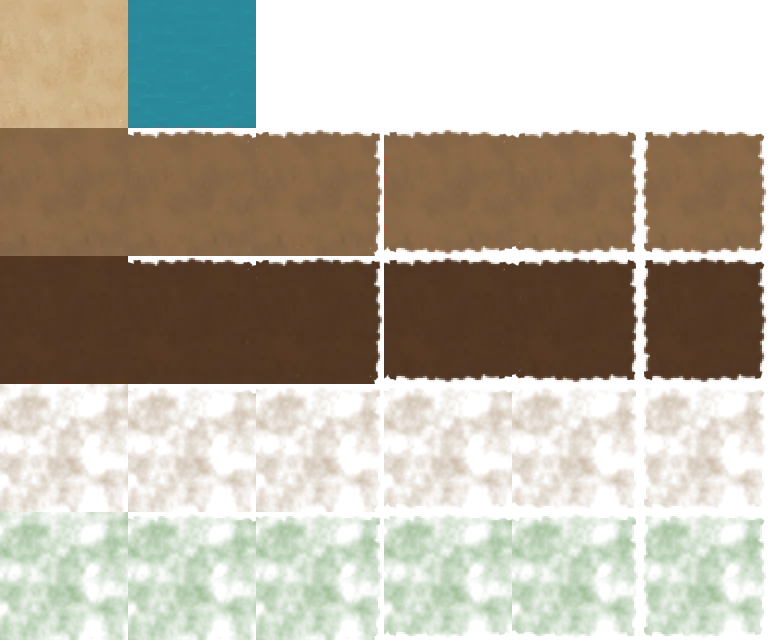
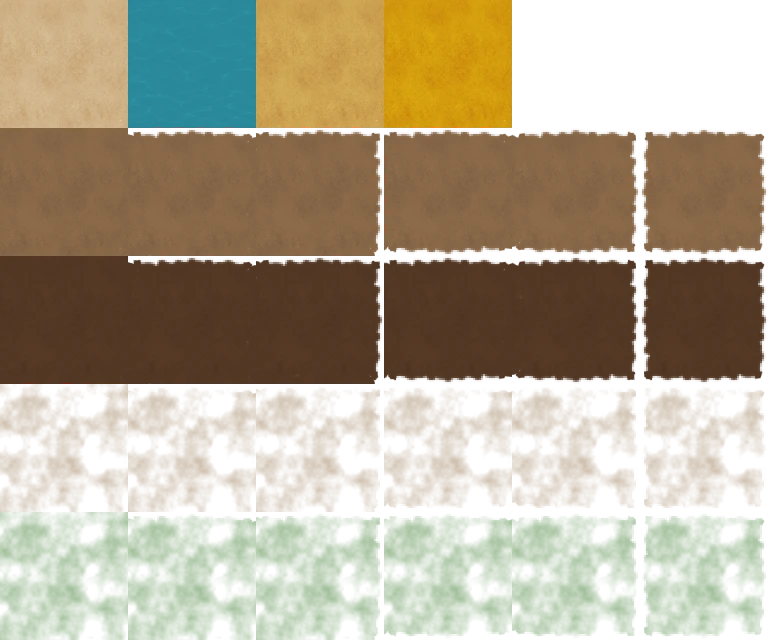
jaya

Changed region(s): [[0.3125, 0.0, 0.6875, 0.2188]]

diff --git a/game.js b/game.js
@@ -1649,6 +1649,88 @@ console.log(
             }
             if (watch.length) list.push({ cr, watch, wet: false, fade: null });
         }
+
+        // THE FIELD ITSELF, not only the worked patches. Every ground cell that
+        // is not under a plant watches its own nearest canal exactly as a crop
+        // does, and turns damp when the water gets there — so the land changes
+        // colour behind the machine rather than only sprouting dark squares
+        // where the crops happen to be.
+        const B = W.BARE || {};
+        if (B.ENABLED === false || TM.TERRAIN_GROUND_DAMP === undefined) return;
+        const ground = seg.groundSprites || [];
+        const planted = new Set((seg.crops || []).map((cr) => cr.col + ',' + cr.row));
+        const bare = seg.bareGround = [];
+        for (let r = 0; r < g.rows; r++) {
+            for (let c = 0; c < g.cols; c++) {
+                const spr = ground[r * g.cols + c];
+                if (!spr || planted.has(c + ',' + r)) continue;
+                let bd = Infinity, watch = [];
+                for (const cc of canal) {
+                    const d = Math.abs(cc.col - c) + Math.abs(cc.row - r);
+                    if (d > bd) continue;
+                    if (d < bd) { bd = d; watch = [cc]; } else watch.push(cc);
+                }
+                if (!watch.length) continue;
+                bare.push({ spr, watch, col: c, row: r, due: undefined, fade: null });
+            }
+        }
+    }
+
+    // Wash the bare field damp behind the water.
+    //
+    // Deliberately LATER and SLOWER than the tilled patches. Both used to key off
+    // the same canal threshold, and a large quiet change landing on the same beat
+    // as a small loud one takes the eye off the small one — which is the plant,
+    // the thing worth watching. So the plant's soil turns under its splash first,
+    // and the field follows as the aftermath.
+    _updateBareGround(dtMs) {
+        const TM = CONFIG.ROAD.TILEMAP, W = TM.GROUND_WET || {}, B = W.BARE || {};
+        if (W.ENABLED === false || B.ENABLED === false) return;
+        if (TM.TERRAIN_GROUND_DAMP === undefined) return;
+        const at = W.AT !== undefined ? W.AT : 0.15;
+        const dt = Math.min(dtMs || 16, 100);
+        const ms = B.FADE_MS !== undefined ? B.FADE_MS : 900;
+        for (const seg of this.segments) {
+            const list = seg.bareGround;
+            if (!list || !list.length) continue;
+            for (let i = list.length - 1; i >= 0; i--) {
+                const e = list[i];
+                if (e.due === undefined) {
+                    let on = false;
+                    for (const cc of e.watch) if (cc.progress > at) { on = true; break; }
+                    if (!on) continue;
+                    // Its own wait, from the cell's hash — the field fills in
+                    // unevenly, the way ground soaks rather than switches.
+                    e.due = this._rndRange(B.DELAY_MS || [500, 1400]);
+                    continue;
+                }
+                e.due -= dt;
+                if (e.due > 0) continue;
+                list[i] = list[list.length - 1]; list.pop();
+                this._dampenGround(seg, e, ms);
+            }
+        }
+    }
+
+    // Cross-fade one bare cell to its damp twin. The same trick the tilled
+    // patches use: the damp tile fades in just above the dry one, then replaces
+    // it and the copy goes — a hard swap pops when a neighbourhood turns at once.
+    _dampenGround(seg, e, ms) {
+        const TM = CONFIG.ROAD.TILEMAP;
+        const spr = e.spr;
+        if (!spr || !spr.scene) return;
+        const frame = TM.TERRAIN_GROUND_DAMP;
+        if (ms <= 0) { spr.setFrame(frame); return; }
+        e.fade = this._addB(this.add.image(spr.x, spr.y, 'terrain', frame)
+            .setDisplaySize(spr.displayWidth, spr.displayHeight)
+            .setAlpha(0).setDepth(spr.depth + 0.001), seg);
+        this.tweens.add({
+            targets: e.fade, alpha: 1, duration: ms, ease: 'Sine.easeOut',
+            onComplete: () => {
+                if (spr.scene) spr.setFrame(frame);
+                if (e.fade) { e.fade.destroy(); e.fade = null; }
+            },
+        });
     }
 
     // Turn each tilled patch wet as its canal arrives, and play the splash that
@@ -7617,6 +7699,7 @@ console.log(
         // Grow crops as the water reaches them.
         this._updateCrops(time);
         this._updateWetGround(delta || 16);
+        this._updateBareGround(delta || 16);
         this._updateFarmers(delta || 16);
         this._updateProps(delta || 16);
         this._updateSway(delta || 16);

diff --git a/config.js b/config.js
@@ -867,8 +867,15 @@ var CONFIG = {
                 COLOR:   0x0a1a10,   // a cold green-black, so dimmed fields read
                                      // as being in shade rather than greyed out
                 FADE_MS: 420,        // handover cross-fade
-                DEPTH:   3.5,        // above every piece of world art (spoil is
-                                     // the highest at 3.12) and below the UI
+                // ABOVE EVERYTHING IN THE WORLD, actors included. The shade
+                // falls on the whole farm — its crops, its animals, its farmer —
+                // or the field dims while the things living in it stay lit,
+                // which reads as a bug rather than as distance.
+                //
+                // 4.5 clears the actor band, which sorts from 4 (see _yDepth)
+                // and rises by thousandths. Ground art is all below 3.2. The UI
+                // is on its own camera and is not affected by this at all.
+                DEPTH:   4.5,
             },
 
             // ── Animal farms ────────────────────────────────────────────────
@@ -1293,6 +1300,15 @@ var CONFIG = {
             TERRAIN: 'graphics/tilesheets/terrain.webp',
             TERRAIN_GROUND: 0,      // row 1, col 1 — the field's base tile, dry
             TERRAIN_WATER:  1,      // row 1, col 2 — flat water; the flow head
+            // Row 1, col 3 — the SAME bare ground as col 1, damp. Not the tilled
+            // pair below: this is the field itself, unworked, with water in it.
+            //
+            // The whole field turns, not only the patches under the plants. With
+            // just the patches darkening the picture said "the plants were
+            // watered"; with the field turning it says "the land got water",
+            // which is the thing the machine is actually doing. It also gives a
+            // level with few crops something to show for being dug.
+            TERRAIN_GROUND_DAMP: 2,
                                     // and its foam blobs are cut from this
             TERRAIN_TILLED:     6,  // row 2, col 1 — DRY tilled soil, and the
                                     // first of that row's six edge variants
@@ -1380,6 +1396,23 @@ var CONFIG = {
                 // the field a different order each time. This way a plant always
                 // takes its turn at the same point.
                 STAGGER_MS: [0, 700],
+
+                // ── The field behind the patches ────────────────────────
+                // Bare ground turns too, but AFTER the plant it surrounds and
+                // more gently. Both used to key off the same canal threshold, so
+                // they fired on one beat and the big quiet change competed with
+                // the small loud one that actually matters.
+                //
+                // Sequenced instead: the plant's own soil turns under its splash,
+                // then the field washes in behind it. The plant is the event; the
+                // field is the aftermath.
+                BARE: {
+                    ENABLED:    true,
+                    DELAY_MS:   [500, 1400],  // after its canal fills — well past
+                                              // the plant's own moment
+                    FADE_MS:    900,          // slower than the patches' 450, so
+                                              // it reads as a wash and not a swap
+                },
             },
 
             // ── Crops ───────────────────────────────────────────────────────
